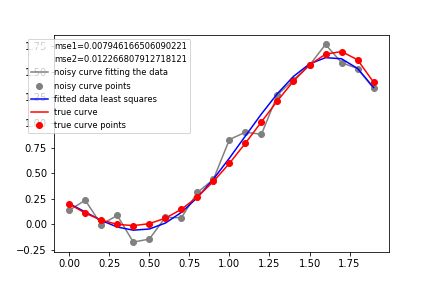
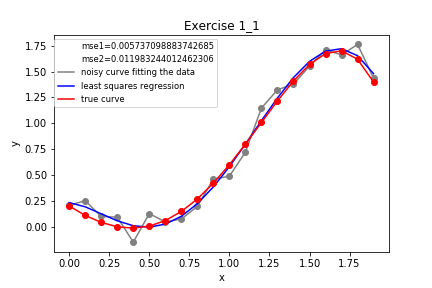
updated figures with more meta
updated figures with more meta

diff --git a/exercise1_3.py b/exercise1_3.py
@@ -19,11 +19,9 @@ def ridge_regression(X, Y, l):
     theta = numpy.dot(numpy.dot(numpy.linalg.inv(XX_transpose + l*numpy.identity(XX_transpose.__len__())), numpy.transpose(X)), Y) 
     return theta
 
-def exercise1_3(N, test, mu, sigma_square, theta_0):
-    #Generate N equidistant value points in the interval [0, N]
+def exercise1_3(N, test, L_list, mu, sigma_square, theta_0):
     N_points = numpy.arange(0, 2, 2/float(N))
     
-    #create X using the N points in the interval [0, N]
     X = []
     for i in range(0, N):
         x = N_points[i]
@@ -31,64 +29,48 @@ def exercise1_3(N, test, mu, sigma_square, theta_0):
 
     Y_true = numpy.dot(X, theta_0)
 
-    #find Y by multiplying X with theta_0 and adding gaussian eta
     Y_0 = numpy.dot(X, theta_0) + numpy.random.normal(mu, sigma_square, X.__len__())
 
-    #find the theta using least squares, that is find the regression line using the 20 points and Y
-    theta_1 = ridge_regression(X, Y_0, 1.5)
-    theta_2 = ridge_regression(X, Y_0, 0.01)
-    theta_3 = ridge_regression(X, Y_0, 0.2)
+    for i in range(0, L_list.__len__()):
 
-    Y_ridge_1 = numpy.dot(X, theta_1)
-    Y_ridge_2 = numpy.dot(X, theta_2)
-    Y_ridge_3 = numpy.dot(X, theta_3)
-
-    #create a test set and correspondent Y
-    X_test = []
-    for i in range(0, test):
-        x = random.choice(N_points)
-        X_test.append([1, x, x**2, x**3, x**4, x**5])
-
-    #find Y_test
-    Y_0_test = numpy.dot(X_test, theta_0) + numpy.random.normal(mu, sigma_square, X_test.__len__())
-
-    Y_test_1 = numpy.dot(X_test, theta_1)
-    Y_test_2 = numpy.dot(X_test, theta_2)
-    Y_test_3 = numpy.dot(X_test, theta_3)
-
-    #find mean square error
-    mse1 = sum((Y_0 - Y_ridge_1)**2)/20
-    mse2 = sum((Y_0 - Y_ridge_2)**2)/20
-    mse3 = sum((Y_0 - Y_ridge_3)**2)/20
-
-    mse4 = sum((Y_test_1 - Y_0_test)**2)/1000
-    mse5 = sum((Y_test_2 - Y_0_test)**2)/1000
-    mse6 = sum((Y_test_3 - Y_0_test)**2)/1000
-
-    print(mse1)
-    print(mse2)
-    print(mse3)
-    print(mse4)
-    print(mse5)
-    print(mse6)
-
-    plt.plot(N_points, Y_0, label='noisy curve fitting the data', color='grey')
-    plt.plot(N_points, Y_0, 'o', label='noisy curve points', color='grey')
-
-    plt.plot(N_points, Y_ridge_1, label='fitted data ridge regression with l=0.000006', color='#339900')
-    plt.plot(N_points, Y_ridge_2, label='fitted data ridge regression with l=0.01', color='#33CC66')
-    plt.plot(N_points, Y_ridge_3, label='fitted data ridge regression with l=0.2', color='#33CC66')
-
-    plt.plot(N_points, Y_true, label='true curve', color='red')
-    plt.plot(N_points, Y_true, 'o', label='true curve points', color='red')
-
-    plt.legend(bbox_to_anchor=(0.6, 1.0), fontsize='small')
-    print_figure("exercise1_3")
-    plt.show()
+        theta = ridge_regression(X, Y_0, L_list[i])
+       
+        Y_ridge = numpy.dot(X, theta)
+       
+        X_test = []
+        
+        for m in range(0, test):
+            x = random.choice(N_points)
+            X_test.append([1, x, x**2, x**3, x**4, x**5])
+    
+        Y_0_test = numpy.dot(X_test, theta_0) + numpy.random.normal(mu, sigma_square, X_test.__len__())
+    
+        Y_test = numpy.dot(X_test, theta)
+        
+    
+        #find mean square error
+        mse1 = sum((Y_0 - Y_ridge)**2)/20
+        mse2 = sum((Y_test - Y_0_test)**2)/1000
+    
+        print(mse1)
+        print(mse2)
+    
+        plt.title('Exercise 1_3_' + chr(ord('`') + (i + 1)))
+        plt.xlabel('x')
+        plt.ylabel('y')
+        plt.plot(N_points, Y_0, label='noisy curve fitting the data', color='grey')
+        plt.plot(N_points, Y_0, 'o', color='grey')
+        plt.plot(N_points, Y_ridge, label='ridge regression with l=' + str(+L_list[i]), color='#339900')
+        plt.plot(N_points, Y_true, label='true curve', color='red')
+        plt.plot(N_points, Y_true, 'o', color='red')
+    
+        plt.legend(bbox_to_anchor=(0.5, 1.0), fontsize='small')
+        print_figure("exercise1_3_" + chr(ord('`') + (i + 1)))
+        plt.show()
 
 
 
 
-exercise1_3(20, 1000, 0, 0.1, [0.2, -1, 0.9, 0.7, 0, -0.2])
+exercise1_3(20, 1000, [0.2,0.005, 0.5], 0, 0.1, [0.2, -1, 0.9, 0.7, 0, -0.2])
 
 

diff --git a/exercise1_6.py b/exercise1_6.py
@@ -1,0 +1,93 @@
+import numpy 
+import matplotlib.pyplot as plt 
+import random
+
+def column(matrix, i):
+    return [row[i] for row in matrix]
+
+def print_figure(figure_name):
+    
+    figure_path = os.path.join(os.path.join(os.getcwd(), "figures"))
+    
+    if os.path.isdir(figure_path):
+        plt.savefig(os.path.join(figure_path, figure_name), quality=99)
+    else:
+        os.mkdir(figure_path)
+        plt.savefig(os.path.join(figure_path, figure_name), quality=99)
+    
+    return
+
+def expectation_maximization(X, Y, theta_0_size, N, convergence): 
+    sigma_0_y = []
+    mu_0_y = []
+    a = 1
+    b = 1    
+    XX_transpose = numpy.dot(numpy.transpose(X), X)
+    
+    temp_sigma_0_y = []
+    temp_mu_0_y = []
+    temp_a = 0.5
+    temp_b = 0.5
+
+    while(abs(a - temp_a) > convergence and abs(b - temp_b) > convergence):
+        
+        sigma_0_y = temp_sigma_0_y
+        mu_0_y = temp_mu_0_y
+        a = temp_a
+        b = temp_b
+        
+        temp_sigma_0_y = numpy.linalg.inv(a*numpy.identity(XX_transpose.__len__()) + b*XX_transpose)
+        temp_mu_0_y = b*numpy.dot(numpy.dot(temp_sigma_0_y, numpy.transpose(X)), Y)
+        temp_a = theta_0_size/(numpy.linalg.norm(temp_mu_0_y)**2 + numpy.trace(temp_sigma_0_y))
+        temp_b = N/(numpy.linalg.norm(Y - numpy.dot(X, temp_mu_0_y))**2 + numpy.trace(numpy.dot(numpy.dot(X, temp_sigma_0_y), numpy.transpose(X))))
+    
+    return [sigma_0_y, mu_0_y, a, b]
+
+
+def exercise16(N, sigma2_n, convergence, theta_0):
+    
+    N_points = numpy.arange(0, 2, 2/float(N))
+    
+    X = []
+    for i in range(0, N):
+        x = N_points[i]
+        X.append([1, x, x**2, x**3, x**4, x**5])
+
+    Y_true = numpy.dot(X, theta_0)
+    
+    Y_biased = numpy.dot(X, theta_0) + numpy.random.normal(0, sigma2_n, X.__len__())
+    
+    result = expectation_maximization(X, Y_biased, theta_0.__len__(), N, convergence)
+      
+    sigma_0 = result[0]
+    mu_0 = result[1]
+    a = result[2]
+    b = result[3]
+
+    X_test = []
+    
+    for i in range(0, 20):
+        x = random.uniform(0, 2)
+        X_test.append([1, x, x**2, x**3, x**4, x**5]) 
+        
+    X_test.sort()
+        
+    Y = numpy.dot(X_test, mu_0)
+    
+    mse = sum((numpy.dot(X_test, theta_0) - Y)**2)/N
+    
+    print(mse)
+    
+    plt.title('Exercise 1_6')
+    plt.xlabel('x')
+    plt.ylabel('y')
+    plt.plot(N_points, Y_true, label='true curve', color='red')
+    plt.plot(column(X_test, 1), Y, label='mean curve fitting the data', color='grey')
+    plt.legend(bbox_to_anchor=(0.42, 1.0), fontsize='small')
+    print_figure("exercise1_6")
+    plt.show()    
+   
+   
+    
+
+exercise1_6(500, 0.05, 0.000006, [0.2, -1, 0.9, 0.7, 0, -0.2])

diff --git a/exercise1_2.py b/exercise1_2.py
@@ -66,7 +66,9 @@ def exercise1_2(N, test, experiments, mu, sigma_square, theta_0):
     Y_avg10 = numpy.average(Y_10, axis = 0)
     Y_var10 = numpy.var(Y_10, axis = 0)
 
-    
+    plt.title('Exercise 1_2')
+    plt.xlabel('x')
+    plt.ylabel('y')
     plt.plot(N_points, Y_2[20], color='#000040')
     plt.plot(N_points, Y_2[40], color='#000060')
     plt.plot(N_points, Y_2[60], color='#000080')
@@ -74,7 +76,7 @@ def exercise1_2(N, test, experiments, mu, sigma_square, theta_0):
     plt.plot(N_points, Y_2[99], color='#0033FF')
 
     plt.plot(N_points, Y_avg2, label='average Y 2nd degree pol', color='#000099')
-    plt.plot(N_points, Y_avg2, 'o', label='average Y 2nd degree pol points', color='#000099')
+    plt.plot(N_points, Y_avg2, 'o', color='#000099')
     plt.errorbar(N_points, Y_avg2, yerr=Y_var2, fmt='.k')
 
 
@@ -85,11 +87,11 @@ def exercise1_2(N, test, experiments, mu, sigma_square, theta_0):
     plt.plot(N_points, Y_10[99], color='#00FF00')
 
     plt.plot(N_points, Y_avg10, label='average Y 10th degree pol', color='#005800')
-    plt.plot(N_points, Y_avg10, 'o', label='average Y 10th degree pol points', color='#005800')
+    plt.plot(N_points, Y_avg10, 'o', color='#005800')
     plt.errorbar(N_points, Y_avg10, yerr=Y_var10, fmt='.k')
 
     plt.plot(N_points, Y_true, label='true curve', color='red')
-    plt.plot(N_points, Y_true, 'o', label='true curve points', color='red')
+    plt.plot(N_points, Y_true, 'o', color='red')
 
  
     plt.legend(bbox_to_anchor=(0.5, 1.0), fontsize='small')

diff --git a/exercise1_1.py b/exercise1_1.py
@@ -56,16 +56,17 @@ def exercise1_1(N, test, mu, sigma_square, theta_0):
     plt.plot(0,label='mse1='+str(mse1), color='white')
     plt.plot(0,label='mse2='+str(mse2), color='white')
 
+    plt.title('Exercise 1_1')
+    plt.xlabel('x')
+    plt.ylabel('y')
     plt.plot(N_points, Y_0, label='noisy curve fitting the data', color='grey')
-    plt.plot(N_points, Y_0, 'o', label='noisy curve points', color='grey')
-
-    plt.plot(N_points, Y_least, label='fitted data least squares', color='blue')
-
+    plt.plot(N_points, Y_0, 'o', color='grey')
+    plt.plot(N_points, Y_least, label='least squares regression', color='blue')
     plt.plot(N_points, Y_true, label='true curve', color='red')
-    plt.plot(N_points, Y_true, 'o', label='true curve points', color='red')
+    plt.plot(N_points, Y_true, 'o', color='red')
 
 
-    plt.legend(bbox_to_anchor=(0.42, 1.0), fontsize='small')
+    plt.legend(bbox_to_anchor=(0.5, 1.0), fontsize='small')
     print_figure("exercise1_1")
     plt.show()
 

diff --git a/exercise1_5.py b/exercise1_5.py
@@ -79,7 +79,10 @@ def exercise1_5(Ns, sigma2_0_list, sigma2_n, theta_0, theta_true):
             
             mean_y = bayesian_inference_mean_y(X, mean_theta)
             variance_y = bayesian_inference_variance_y(X, sigma2_0, sigma2_n)
-                
+            
+            plt.title('Exercise 1_5_' + chr(ord('`') + (iterations + 1)))
+            plt.xlabel('x')
+            plt.ylabel('y')
             plt.plot(N_points, Y_true, label='true curve', color='red')
                     
             plt.plot(column(X, 1), mean_y, label='mean curve fitting the data', color='grey')

diff --git a/exercise1_4.py b/exercise1_4.py
@@ -74,6 +74,9 @@ def exercise1_4(N, sigma2_0, sigma2_n_list, theta_0):
         mean_y = bayesian_inference_mean_y(X, mean_theta)
         variance_y = bayesian_inference_variance_y(X, sigma2_0, sigma2_n)
             
+        plt.title('Exercise 1_4_' + chr(ord('`') + (i + 1)))
+        plt.xlabel('x')
+        plt.ylabel('y')
         plt.plot(N_points, Y_true, label='true curve', color='red')
                 
         plt.plot(column(X, 1), mean_y, label='mean curve fitting the data', color='grey')
